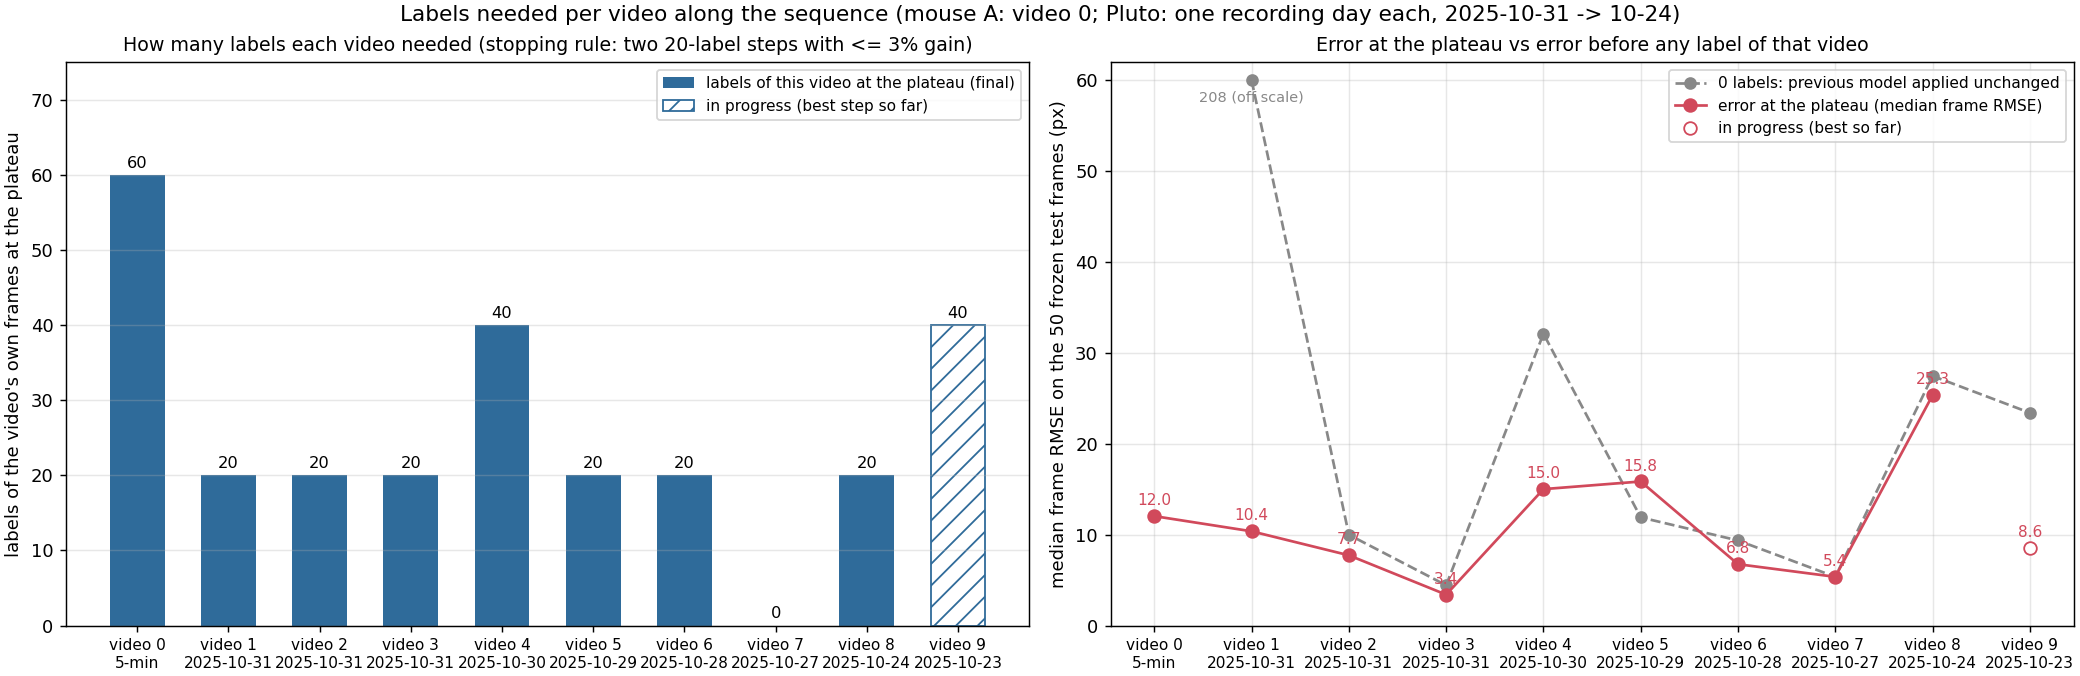
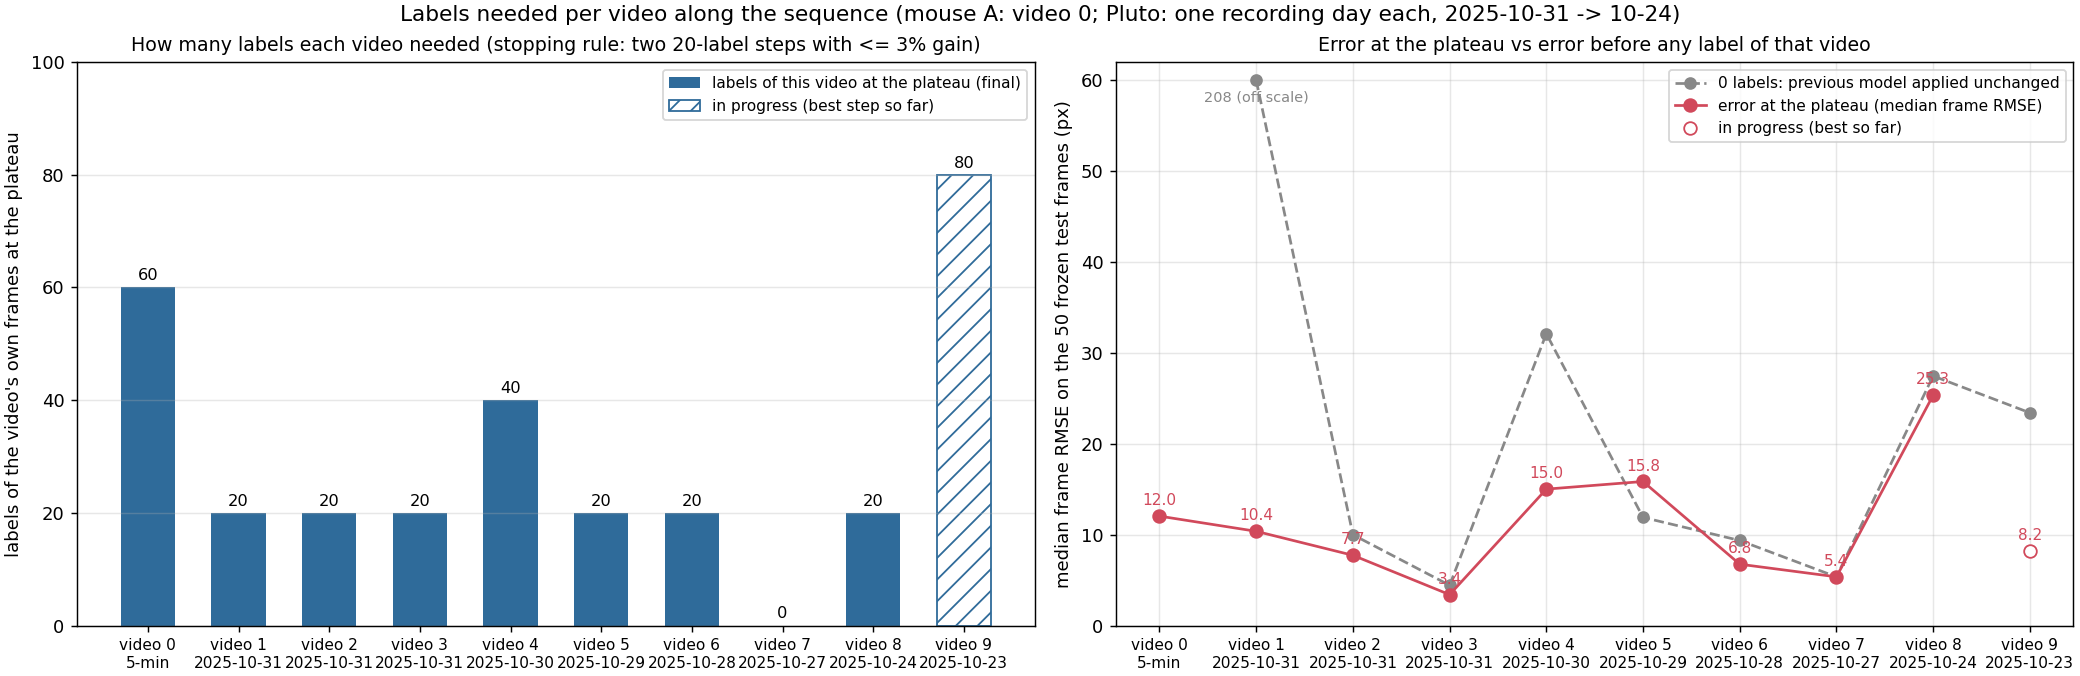
Video 9 v2 step 4: 80 labels = 8.20 px (4.1% better than 8.55; plateau rule not fired)
Claude-Session: https://claude.ai/code/session_017MK5SWBFFQAu8ejFk1z7fh

diff --git a/README.md b/README.md
@@ -8,7 +8,7 @@ how many human labels are needed, and how few frames must a person correct, befo
 Zhiheng Li (University of Minnesota), with Kaiwen Sheng (Stanford). Raw videos, frames, labels, model weights and
 per-frame predictions stay local; git carries code, documentation and audited aggregate results.
 
-## Status (last updated 2026-10-01 10:25 CDT)
+## Status (last updated 2026-10-01 12:35 CDT)
 
 | what | state |
 |---|---|
@@ -21,7 +21,7 @@ per-frame predictions stay local; git carries code, documentation and audited ag
 | Finished | **video 6** (Pluto, 2025-10-28, v2 line continued): test set relabeled under v2 and frozen; 0 labels (video-5 model 631) = 9.36 px, 20 labels = 6.75 px (p90 11.2), 40 labels = 8.46 px, 60 labels = 10.68 px (p90 14.9): finished at **20 labels, 6.75 px** (rule fired at 60; user decision 2026-09-29). |
 | Finished | **video 7** (Pluto, 2025-10-27, v2 line): test set relabeled under v2 and frozen; 0 labels (video-6 model 711) = 5.36 px, 20 labels = 5.86 px, 40 labels = 5.84 px: finished at **0 labels, 5.36 px** - the video-6 model already fits this day (user decision 2026-09-29). |
 | Finished | **video 8** (Pluto, 2025-10-24, v2 line): test set relabeled under v2 and frozen; 0 labels (video-6 model 711) = 27.46 px, 20 labels = 25.34 px, 40 labels = 30.03 px (p90 ~50, 12-14% of frames > 50 px - a hard day, 3 days after video 7); 60 labels = 33.77 px: finished at **20 labels, 25.34 px** (rule fired at 60; 12-16% of frames > 50 px at every step - this day is hard). |
-| In progress | **video 9** (Pluto, 2025-10-23, v2 line): test50 / val20 / batch01 labeled from model-711 pre-labels; 0 labels (model 711) = 23.41 px, 20 labels = 10.39 px, 40 labels = 8.55 px, 60 labels = 8.67 px (p90 14.8; no gain on the median, the plateau rule decides after step 4); batch04 being selected Cross-video curves now also show the 5 / 10-label subset models (open markers) |
+| In progress | **video 9** (Pluto, 2025-10-23, v2 line): test50 / val20 / batch01 labeled from model-711 pre-labels; 0 labels (model 711) = 23.41 px, 20 labels = 10.39 px, 40 labels = 8.55 px, 60 labels = 8.67 px (p90 14.8; no gain on the median), 80 labels = 8.20 px (p90 14.8; 4.1% better than the running best of 8.55, so the plateau rule has not fired); batch05 being selected. Cross-video curves now also show the 5 / 10-label subset models (open markers) |
 | Blink / area analysis | per-video time series in `<video>/results/blink_area_analysis/`; across videos (`v2_new_pupil_top_video_scaling/results/blink_area_consistency.png`): 4-point area better on 7 of 8 test sets; lowest pupil confidence < ~0.2 separates all 16 human closed-eye frames (the production 0.6 cut flags ~half of open frames); area correlates with eye opening in every video |
 | Test-set only | videos 5-8 (2025-10-29 / 28 / 27 / 24): frozen test sets scored by every model so far; videos 9 (10-23) and 10 (10-22): test sets being labeled |
 
@@ -40,7 +40,7 @@ Labels needed per video (plateau = two consecutive 20-label steps that improve t
 | 6 | Pluto, 2025-10-28 | 380 | 9.36 / 6.75 / 8.46 / 10.68 px (v2) | 20 labels, 6.75 px (rule fired at 60) |
 | 7 | Pluto, 2025-10-27 | 400 | 5.36 / 5.86 / 5.84 px (v2) | 0 labels, 5.36 px (rule fired at 40) |
 | 8 | Pluto, 2025-10-24 | 400 | 27.46 / 25.34 / 30.03 / 33.77 px (v2) | 20 labels, 25.3 px (rule fired at 60) |
-| 9 | Pluto, 2025-10-23 | 420 | 23.41 / 10.39 / 8.55 / 8.67 px (v2, in progress) | – |
+| 9 | Pluto, 2025-10-23 | 420 | 23.41 / 10.39 / 8.55 / 8.67 / 8.20 px (v2, in progress) | – |
 
 What the numbers say:
 

diff --git a/v2_new_pupil_top_video_scaling/results/README.md b/v2_new_pupil_top_video_scaling/results/README.md
@@ -21,7 +21,7 @@ snapshot with the best validation mAP after the first learning-rate drop (epochs
 | 6 `6_20251028_Pluto_spont_1` | mouse B, 19.9 min, 2025-10-28 | 380 (videos 0-3 + 40 of video 4 + 20 of video 5) | convention v2: 9.36 / 6.75 / 8.46 / 10.68 | **20 labels** (rule fired at 60; user decision 2026-09-29) | 6.75 px |
 | 7 `7_20251027_Pluto_spont1` | mouse B, 19.9 min, 2025-10-27 | 400 (videos 0-3 + 40 of video 4 + 20 of video 5 + 20 of video 6) | convention v2: 5.36 / 5.86 / 5.84 | **0 labels** (rule fired at 40; user decision 2026-09-29) | 5.36 px |
 | 8 `8_20251024_Pluto_spont1` | mouse B, 19.9 min, 2025-10-24 | 400 (videos 0-3 + 40 of video 4 + 20 of video 5 + 20 of video 6) | convention v2: 27.46 / 25.34 / 30.03 / 33.77 | **20 labels** (rule fired at 60; user decision 2026-09-30) | 25.34 px |
-| 9 `9_20251023_Pluto1` | mouse B, 19.9 min, 2025-10-23 | 420 (videos 0-3 + 40 of video 4 + 20 each of videos 5, 6, 8) | convention v2: 23.41 / 10.39 / 8.55 / 8.67 | in progress (step 3 did not improve on 8.55; rule decides after step 4) | – |
+| 9 `9_20251023_Pluto1` | mouse B, 19.9 min, 2025-10-23 | 420 (videos 0-3 + 40 of video 4 + 20 each of videos 5, 6, 8) | convention v2: 23.41 / 10.39 / 8.55 / 8.67 / 8.20 | in progress (step 3 did not improve on 8.55; step 4 improved it by 4.1%, so the rule has not fired; step 5 next) | – |
 
 `labels_to_plateau.png` / `labels_to_plateau.csv` (2026-09-30): the plateau point of every video in the sequence as one figure - labels needed (left) and the error at the plateau vs the 0-label error (right); `scripts/plot_labels_to_plateau.py`. The csv is the table above in machine-readable form and is updated when a video finishes.
 

diff --git a/v2_new_pupil_top_video_scaling/9_20251023_Pluto1/results/README.md b/v2_new_pupil_top_video_scaling/9_20251023_Pluto1/results/README.md
@@ -12,3 +12,4 @@ contributed none); shuffles 1011, 1012, ...
 | 20 (shuffle 1011) | 10.39 px | 24.3 | 8% | 55% | 10359 of 57158 (18.1%) |
 | 40 (shuffle 1012) | 8.55 px | 19.6 | 0% | 86% | 6470 of 57158 (11.3%) |
 | 60 (shuffle 1013) | 8.67 px | 14.8 | 0% | 78% | 5790 of 57158 (10.1%) |
+| 80 (shuffle 1014) | 8.20 px | 14.8 | 0% | 86% | pending |
